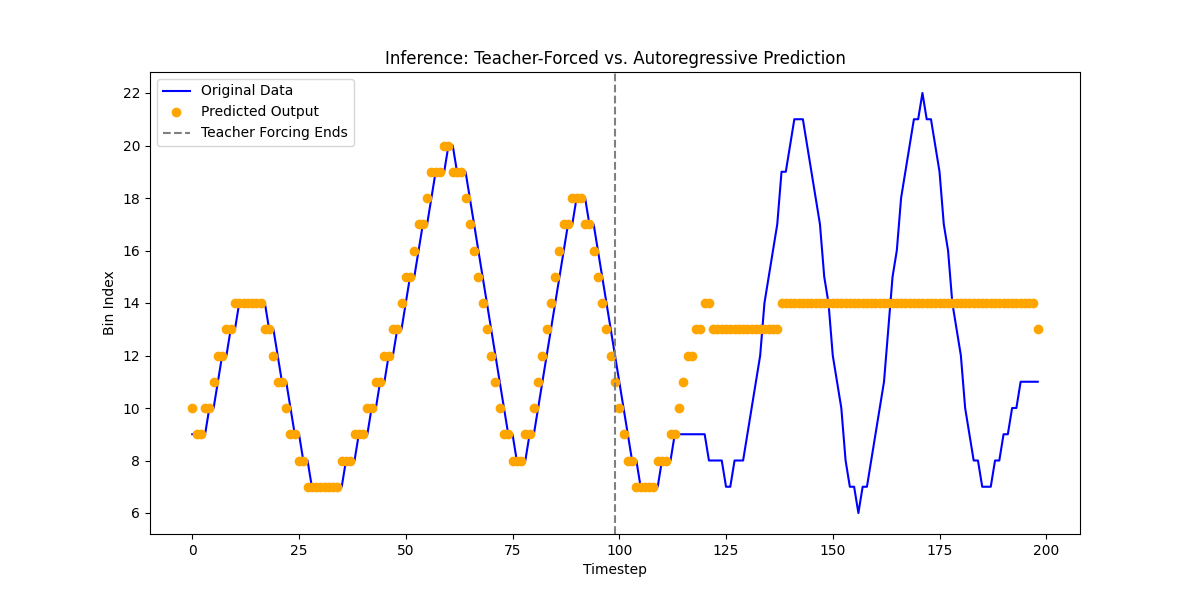
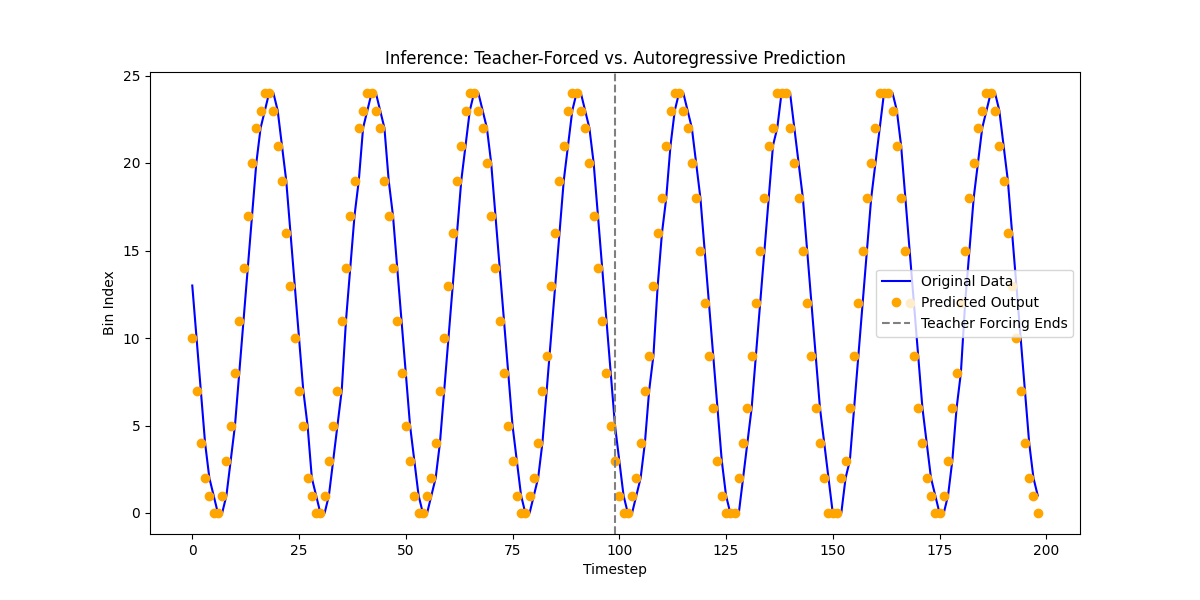
messy

diff --git a/src/main.py b/src/main.py
@@ -8,6 +8,7 @@ import matplotlib.pyplot as plt
 from pscan import pscan
 from synaptic_delay import compute_synaptic_delay
 
+
 # Constants
 NUM_SEQUENCES = 1
 SEQUENCE_LENGTH = 200
@@ -16,14 +17,86 @@ FREQ_RANGE = (1.5, 10.5)
 AMP_RANGE = (0.5, 1.5)
 PHASE_RANGE = (0, 2 * np.pi)
 NUM_BINS = 25
-BATCH_SIZE = 1
-HIDDEN_DIM = 8
+BATCH_SIZE = NUM_SEQUENCES
+HIDDEN_DIM = 64
 CHANNELS = NUM_BINS
 TIMESTEPS = SEQUENCE_LENGTH
 LEARNING_RATE = 1e-2
-NUM_EPOCHS = 1000
+NUM_EPOCHS = 200
+OUTPUT_DIM = NUM_BINS
 
 DEVICE = torch.device("cuda" if torch.cuda.is_available() else "cpu")
+
+class DelayedMLP(nn.Module):
+    def __init__(self, input_size: int, hidden_size: int, output_size: int):
+        super(DelayedMLP, self).__init__()
+        self.input_size = input_size
+        self.output_size = output_size
+
+        self.mlp = nn.Sequential(
+            DelayedLinear(input_size, hidden_size),
+            DelayedLinear(hidden_size, hidden_size),
+            nn.Linear(hidden_size, output_size),
+        )
+
+    def init_buffer(self, batch_size: int):
+        for module in self.mlp:
+            if isinstance(module, DelayedLinear):
+                module.init_buffer(batch_size)
+
+    def forward(self, x: torch.Tensor) -> torch.Tensor:
+        return self.mlp(x)
+
+
+class DelayedLinear(nn.Module):
+    def __init__(self, input_size: int, hidden_size: int):
+        super(DelayedLinear, self).__init__()
+        self.input_size = input_size
+        self.delay_gate_input = nn.Linear(input_size, input_size)
+        self.delay_gate_buffer = nn.Linear(input_size, input_size)
+        self.sigmoid = nn.Sigmoid()
+
+        self.linear = nn.Sequential(
+            nn.Linear(input_size, hidden_size),
+            nn.ReLU(),
+            nn.LayerNorm(hidden_size),
+        )
+
+    def init_buffer(self, batch_size: int):
+        self.buffer = torch.zeros(batch_size, self.input_size).to(DEVICE)
+
+    def forward(self, x: torch.Tensor) -> torch.Tensor:
+        batch_size, seq_len, input_size = x.size()
+        # Use a local variable for the buffer
+        outputs = []
+
+        for t in range(seq_len):
+            current_input = x[:, t, :]
+
+            # compute what of the current input is getting delayed
+            decay_weights = self.sigmoid(self.delay_gate_input(current_input))
+            immediate_contribution = current_input * decay_weights
+            delayed_contribution = (1 - decay_weights) * current_input
+
+            # add delayed portion to buffer
+            #
+            # notably, this happens before the buffer release so some input can
+            # be delayed, interact with buffer, and be released, all in the same
+            # timestep
+            self.buffer = self.buffer + delayed_contribution
+
+            # determine how much of the buffer to release
+            buffer_decay_weights = self.sigmoid(self.delay_gate_buffer(self.buffer))
+            buffer_release = self.buffer * buffer_decay_weights
+            self.buffer = self.buffer * (1 - buffer_decay_weights)
+
+            # combine the immediate and delayed contributions and feed through MLP
+            combined_input = immediate_contribution + buffer_release
+            output = self.linear(combined_input)
+            outputs.append(output)
+
+        final_output = torch.stack(outputs, dim=1)
+        return final_output
 
 def initialize_wandb():
     wandb.init(project="ssm-synaptic-delay", config={
@@ -45,11 +118,23 @@ def initialize_wandb():
 class SSMSynapticDelay(nn.Module):
     def __init__(self):
         super(SSMSynapticDelay, self).__init__()
-        self.delay_proj = nn.Linear(CHANNELS, TIMESTEPS)
-        self.U = nn.Linear(CHANNELS, HIDDEN_DIM)
-        self.A = nn.Linear(HIDDEN_DIM, HIDDEN_DIM, bias=False)
-        self.B = nn.Linear(CHANNELS, HIDDEN_DIM)
-        self.output_layer = nn.Linear(HIDDEN_DIM, CHANNELS)
+
+        self.multilayer = nn.Sequential(
+            SSMSynapticDelayLayer(CHANNELS, HIDDEN_DIM),
+            SSMSynapticDelayLayer(HIDDEN_DIM, HIDDEN_DIM),
+            nn.Linear(HIDDEN_DIM, OUTPUT_DIM)
+        )
+
+    def forward(self, x):
+        return self.multilayer(x)
+
+class SSMSynapticDelayLayer(nn.Module):
+    def __init__(self, input_dim, hidden_dim):
+        super(SSMSynapticDelayLayer, self).__init__()
+        self.delay_proj = nn.Linear(input_dim, TIMESTEPS)
+        self.U = nn.Linear(input_dim, hidden_dim)
+        self.A = nn.Linear(hidden_dim, hidden_dim, bias=False)
+        self.B = nn.Linear(input_dim, hidden_dim)
 
     def forward(self, x):
         # Reshape input to (TIMESTEPS, BATCH_SIZE, CHANNELS)
@@ -64,9 +149,7 @@ class SSMSynapticDelay(nn.Module):
         pscan_output = pscan(self.A.weight, b, u, torch.zeros(x.size(1), HIDDEN_DIM).to(DEVICE))
         hidden = pscan_output.transpose(0, 1)
         
-        # Project to output space
-        output = self.output_layer(hidden)
-        return output.transpose(0, 1)  # Return to (BATCH_SIZE, TIMESTEPS, CHANNELS)
+        return hidden
 
 def generate_waveforms(num_sequences: int, sequence_length: int, num_modes: int,
                       freq_range: tuple, amp_range: tuple, phase_range: tuple) -> np.ndarray:
@@ -93,6 +176,7 @@ def train_model(model: nn.Module, data_loader: torch.utils.data.DataLoader,
     for epoch in range(num_epochs):
         total_loss = 0.0
         for inputs, targets in data_loader:
+            model.init_buffer(BATCH_SIZE)
             inputs, targets = inputs.to(DEVICE), targets.to(DEVICE)
             optimizer.zero_grad()
             outputs = model(inputs)
@@ -107,6 +191,7 @@ def train_model(model: nn.Module, data_loader: torch.utils.data.DataLoader,
         print(f"Epoch [{epoch + 1}/{num_epochs}], Loss: {avg_loss:.4f}")
 
 def inference_and_plot(model, inputs):
+    model.init_buffer(BATCH_SIZE)
     model.eval()
     with torch.no_grad():
         predictions = []
@@ -118,19 +203,22 @@ def inference_and_plot(model, inputs):
                 print("\n*** Switching from teacher forcing to autoregressive prediction ***\n")
 
             if teacher_forcing:
-                current_input = inputs[:, :t+1, :]
+                print(inputs.shape)
+                current_input = inputs[:, t, :]
+                print(current_input.shape)
             else:
                 # Use the last prediction for autoregressive inference
                 if predictions:
                     last_output = predictions[-1]
                     probabilities = torch.softmax(last_output, dim=-1)
                     predicted_indices = probabilities.argmax(dim=-1)
-                    current_input = torch.zeros_like(inputs[:, :t+1, :])
-                    current_input[:, -1, :].scatter_(1, predicted_indices.unsqueeze(-1), 1)
+                    current_input = torch.zeros_like(inputs[:, t, :])
+                    # current_input[:, -1, :].scatter_(1, predicted_indices.unsqueeze(-1), 1)
+                    current_input.scatter_(1, predicted_indices.unsqueeze(-1), 1)
                 else:
-                    current_input = inputs[:, :t+1, :]
+                    current_input = inputs[:, t, :]
 
-            output = model(current_input)
+            output = model(current_input.unsqueeze(1))
             predictions.append(output[:, -1, :])
 
         predictions = torch.stack(predictions, dim=1)
@@ -166,7 +254,9 @@ def main():
     data_loader = torch.utils.data.DataLoader(dataset, batch_size=BATCH_SIZE, shuffle=True)
 
     # Initialize model and training components
-    model = SSMSynapticDelay().to(DEVICE)
+    # model = SSMSynapticDelay().to(DEVICE)
+    model = DelayedMLP(input_size=NUM_BINS, hidden_size=HIDDEN_DIM, output_size=OUTPUT_DIM).to(DEVICE)
+    model.init_buffer(BATCH_SIZE)
     optimizer = optim.Adam(model.parameters(), lr=LEARNING_RATE)
     criterion = nn.CrossEntropyLoss()
 

diff --git a/src/main2.py b/src/main2.py
@@ -8,9 +8,9 @@ import matplotlib.pyplot as plt
 
 
 # Constants
-NUM_SEQUENCES = 5
+NUM_SEQUENCES = 1
 SEQUENCE_LENGTH = 200
-NUM_MODES = 4
+NUM_MODES = 1
 FREQ_RANGE = (1.5, 10.5)
 AMP_RANGE = (0.5, 1.5)
 PHASE_RANGE = (0, 2 * np.pi)
@@ -19,7 +19,7 @@ HIDDEN_SIZE = 64
 OUTPUT_SIZE = NUM_BINS
 BATCH_SIZE = NUM_SEQUENCES
 LEARNING_RATE = 1e-2
-NUM_EPOCHS = 250
+NUM_EPOCHS = 200
 
 DEVICE = torch.device("cuda" if torch.cuda.is_available() else "cpu")
 
